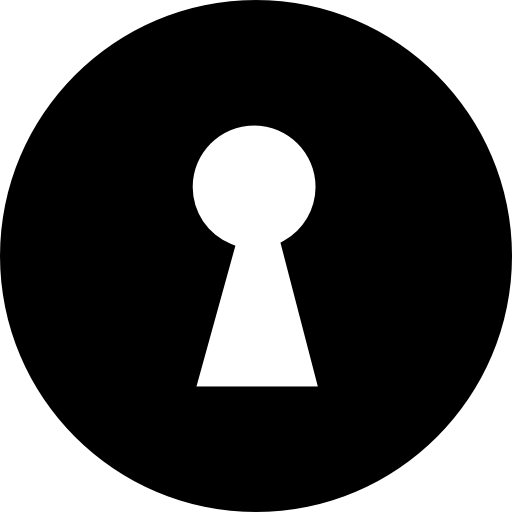
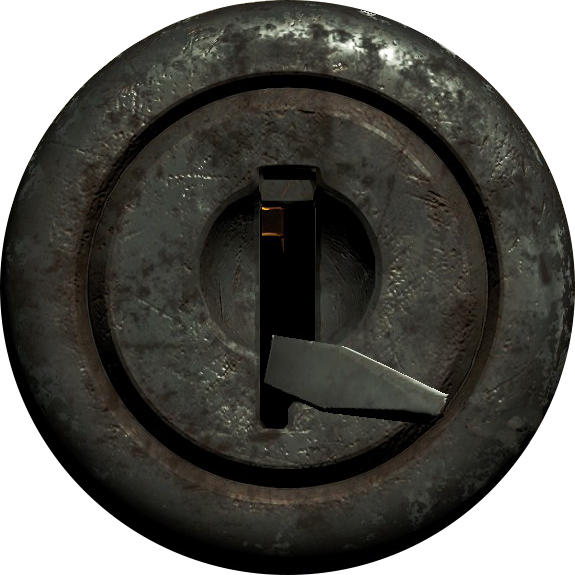
feat: updated keyhole and added lockpick image with rotation and sensitivity

diff --git a/src/graphics/LockPick.ts b/src/graphics/LockPick.ts
@@ -1,7 +1,6 @@
-import { Difficulties } from '../constants/Difficulty';
+import { Config } from '../Config';
 import { LockPickEngine } from '../engine/LockPickEngine';
 import { lerp, toRadians } from '../engine/MathUtils';
-import { Position } from './Position';
 
 /**
  * Simple visual representation of the lock pick. Consists of
@@ -13,14 +12,15 @@ import { Position } from './Position';
 export class LockPick {
   private readonly engine: LockPickEngine;
   private readonly lockPickHpElement: HTMLElement;
+  private readonly image: HTMLImageElement;
+  private readonly scaledImageW: number;
+  private readonly scaledImageH: number;
   private rotationRadians: number;
 
   constructor(
-    private readonly centerPosition: Position,
-    difficulty: Difficulties,
+    private readonly config: Config,
     private readonly context: CanvasRenderingContext2D
   ) {
-    this.rotationRadians = 0;
     const hpElement = document.getElementById('lockpick-hp');
     if (hpElement === null) {
       throw new Error(
@@ -28,9 +28,19 @@ export class LockPick {
       );
     }
     this.lockPickHpElement = hpElement;
+    const imageElement = document.getElementById(
+      'lockpick-img'
+    ) as HTMLImageElement | null;
+    if (imageElement === null) {
+      throw new Error('Unable to find lock image');
+    }
+    this.rotationRadians = 0;
+    this.image = imageElement;
+    this.scaledImageW = this.image.width / 2;
+    this.scaledImageH = this.image.height / 2;
     // call after assigning lockpick element :)
     this.engine = new LockPickEngine(
-      difficulty,
+      config.difficulty,
       this.updateLockPickHealth.bind(this)
     );
 
@@ -56,54 +66,34 @@ export class LockPick {
   }
 
   rotateLockPick(ev: MouseEvent) {
-    const canvas = document.getElementById('canvas');
-    if (canvas === null) {
-      throw new Error("Canvas wasn't found!");
-    }
-    let mouseX = ev.clientX - canvas.offsetLeft;
+    let mouseX = ev.clientX - this.config.canvas.offsetLeft;
+    const minX = this.config.canvas.offsetLeft;
+    mouseX = Math.max(mouseX, 0);
+    mouseX = Math.min(mouseX, this.config.canvas.clientWidth);
+    const normalizedMouseX = mouseX / this.config.canvas.clientWidth;
 
-    const minX = canvas.offsetLeft;
-    const maxX = minX + canvas.clientWidth;
-    mouseX = Math.max(mouseX, minX);
-    mouseX = Math.min(mouseX, maxX);
-    const normalizedMouseX = mouseX / canvas.clientWidth;
-    const rotationAngle = lerp(180, 0, normalizedMouseX);
+    const rotationAngle = lerp(
+      180 + this.config.lockpickMovementSensitivity,
+      0 - this.config.lockpickMovementSensitivity,
+      normalizedMouseX
+    );
     this.rotationRadians = toRadians(rotationAngle);
-    console.log(`rotate by ${rotationAngle} (${this.rotationRadians} radians)`);
+    console.log('norm x | angle', normalizedMouseX, this.rotationRadians);
+    this.rotationRadians = Math.min(this.rotationRadians, Math.PI);
+    this.rotationRadians = Math.max(this.rotationRadians, 0);
   }
 
   draw() {
     this.context.save();
-    this.context.translate(0, -25);
-
-    // TODO: rotation center is off, seems like it's the point [0,0]
-    this.context.rotate(-Math.PI + this.rotationRadians);
-
-    this.context.strokeStyle = 'blue';
-    this.context.lineWidth = 5;
-    this.context.beginPath();
-    this.context.lineTo(this.centerPosition.x, this.centerPosition.y);
-    this.context.lineTo(this.centerPosition.x, 5 + this.centerPosition.y);
-    this.context.lineTo(65 + this.centerPosition.x, 10 + this.centerPosition.y);
-    this.context.lineTo(
-      75 + this.centerPosition.x,
-      125 + this.centerPosition.y
+    this.context.rotate(this.rotationRadians);
+    this.context.translate(-this.scaledImageW, -this.scaledImageH / 2);
+    this.context.drawImage(
+      this.image,
+      0,
+      0,
+      this.scaledImageW,
+      this.scaledImageH
     );
-    this.context.lineTo(
-      55 + this.centerPosition.x,
-      350 + this.centerPosition.y
-    );
-    this.context.lineTo(
-      95 + this.centerPosition.x,
-      350 + this.centerPosition.y
-    );
-    this.context.lineTo(
-      95 + this.centerPosition.x,
-      125 + this.centerPosition.y
-    );
-    this.context.lineTo(75 + this.centerPosition.x, this.centerPosition.y);
-    this.context.closePath();
-    this.context.stroke();
     this.context.restore();
   }
 }

diff --git a/src/graphics/Lock.ts b/src/graphics/Lock.ts
@@ -2,7 +2,6 @@ import { Config } from '../Config';
 import { LockEngine } from '../engine/LockEngine';
 import { Cylinder } from './Cylinder';
 import { LockPick } from './LockPick';
-import { Position } from './Position';
 
 /**
  * Represents the whole lock with cylinder and lock pick.
@@ -22,12 +21,8 @@ export class Lock {
   ) {
     this.canvas = config.canvas;
     this.lockEngine = new LockEngine(config.difficulty);
-    const centerPosition = new Position(
-      this.canvas.width / 2,
-      this.canvas.height / 2
-    );
-    this.cylinder = new Cylinder(centerPosition, context);
-    this.lockPick = new LockPick(centerPosition, config.difficulty, context);
+    this.cylinder = new Cylinder(context);
+    this.lockPick = new LockPick(config, context);
     // TODO: think about possible 'a'/'d' usage, but will have to
     //       introduce some mechanism that would prevent doubling
     //       of action (e.g. pressing 'a' and then 'd' at the same time)
@@ -74,10 +69,11 @@ export class Lock {
 
   draw() {
     this.context.clearRect(0, 0, this.canvas.width, this.canvas.height);
+    this.context.save();
+    this.context.translate(this.canvas.width / 2, this.canvas.height / 2);
     this.cylinder.draw();
-    // this.context.save();
-    // this.context.(0, 0, this.canvas.width, this.canvas.height);
     this.lockPick.draw();
+    this.context.restore();
   }
 
   reanimate(callback: () => any): NodeJS.Timeout {

diff --git a/src/graphics/Cylinder.ts b/src/graphics/Cylinder.ts
@@ -1,4 +1,4 @@
-import { Position } from './Position';
+import { lerp, toRadians } from '../engine/MathUtils';
 
 export class Cylinder {
   private readonly image: HTMLImageElement;
@@ -7,10 +7,7 @@ export class Cylinder {
   private readonly endAngle: number;
   private rotationInRadians: number;
 
-  constructor(
-    private readonly centerPosition: Position,
-    private readonly context: CanvasRenderingContext2D
-  ) {
+  constructor(private readonly context: CanvasRenderingContext2D) {
     const imageElement = document.getElementById(
       'keyhole-img'
     ) as HTMLImageElement | null;
@@ -18,7 +15,7 @@ export class Cylinder {
       throw new Error('Unable to find lock image');
     }
     this.image = imageElement;
-    this.cylinderRadius = 200;
+    this.cylinderRadius = 250;
     this.rotationInRadians = 0;
     this.startAngle = 0;
     this.endAngle = 90;
@@ -39,7 +36,6 @@ export class Cylinder {
 
   draw() {
     this.context.save();
-    this.context.translate(this.centerPosition.x, this.centerPosition.y);
     this.context.rotate(this.rotationInRadians);
     this.context.drawImage(
       this.image,

diff --git a/src/index.html b/src/index.html
@@ -10,12 +10,8 @@
     <script type="module" src="main.ts" async defer></script>
   </head>
   <body>
-    <img
-      id="keyhole-img"
-      src="./img/keyhole.png"
-      hidden
-      crossorigin="anonymous"
-    />
+    <img id="keyhole-img" src="./img/keyhole.png" hidden />
+    <img id="lockpick-img" src="./img/lockpick.png" hidden />
     <div id="container">
       <canvas id="canvas" width="800" height="800"></canvas>
       <div id="stats">

diff --git a/src/Config.ts b/src/Config.ts
@@ -1,6 +1,7 @@
 import { Difficulties } from './constants/Difficulty';
 
 export class Config {
+  public readonly lockpickMovementSensitivity = 100;
   constructor(
     public readonly difficulty: Difficulties,
     public readonly canvas: HTMLCanvasElement
